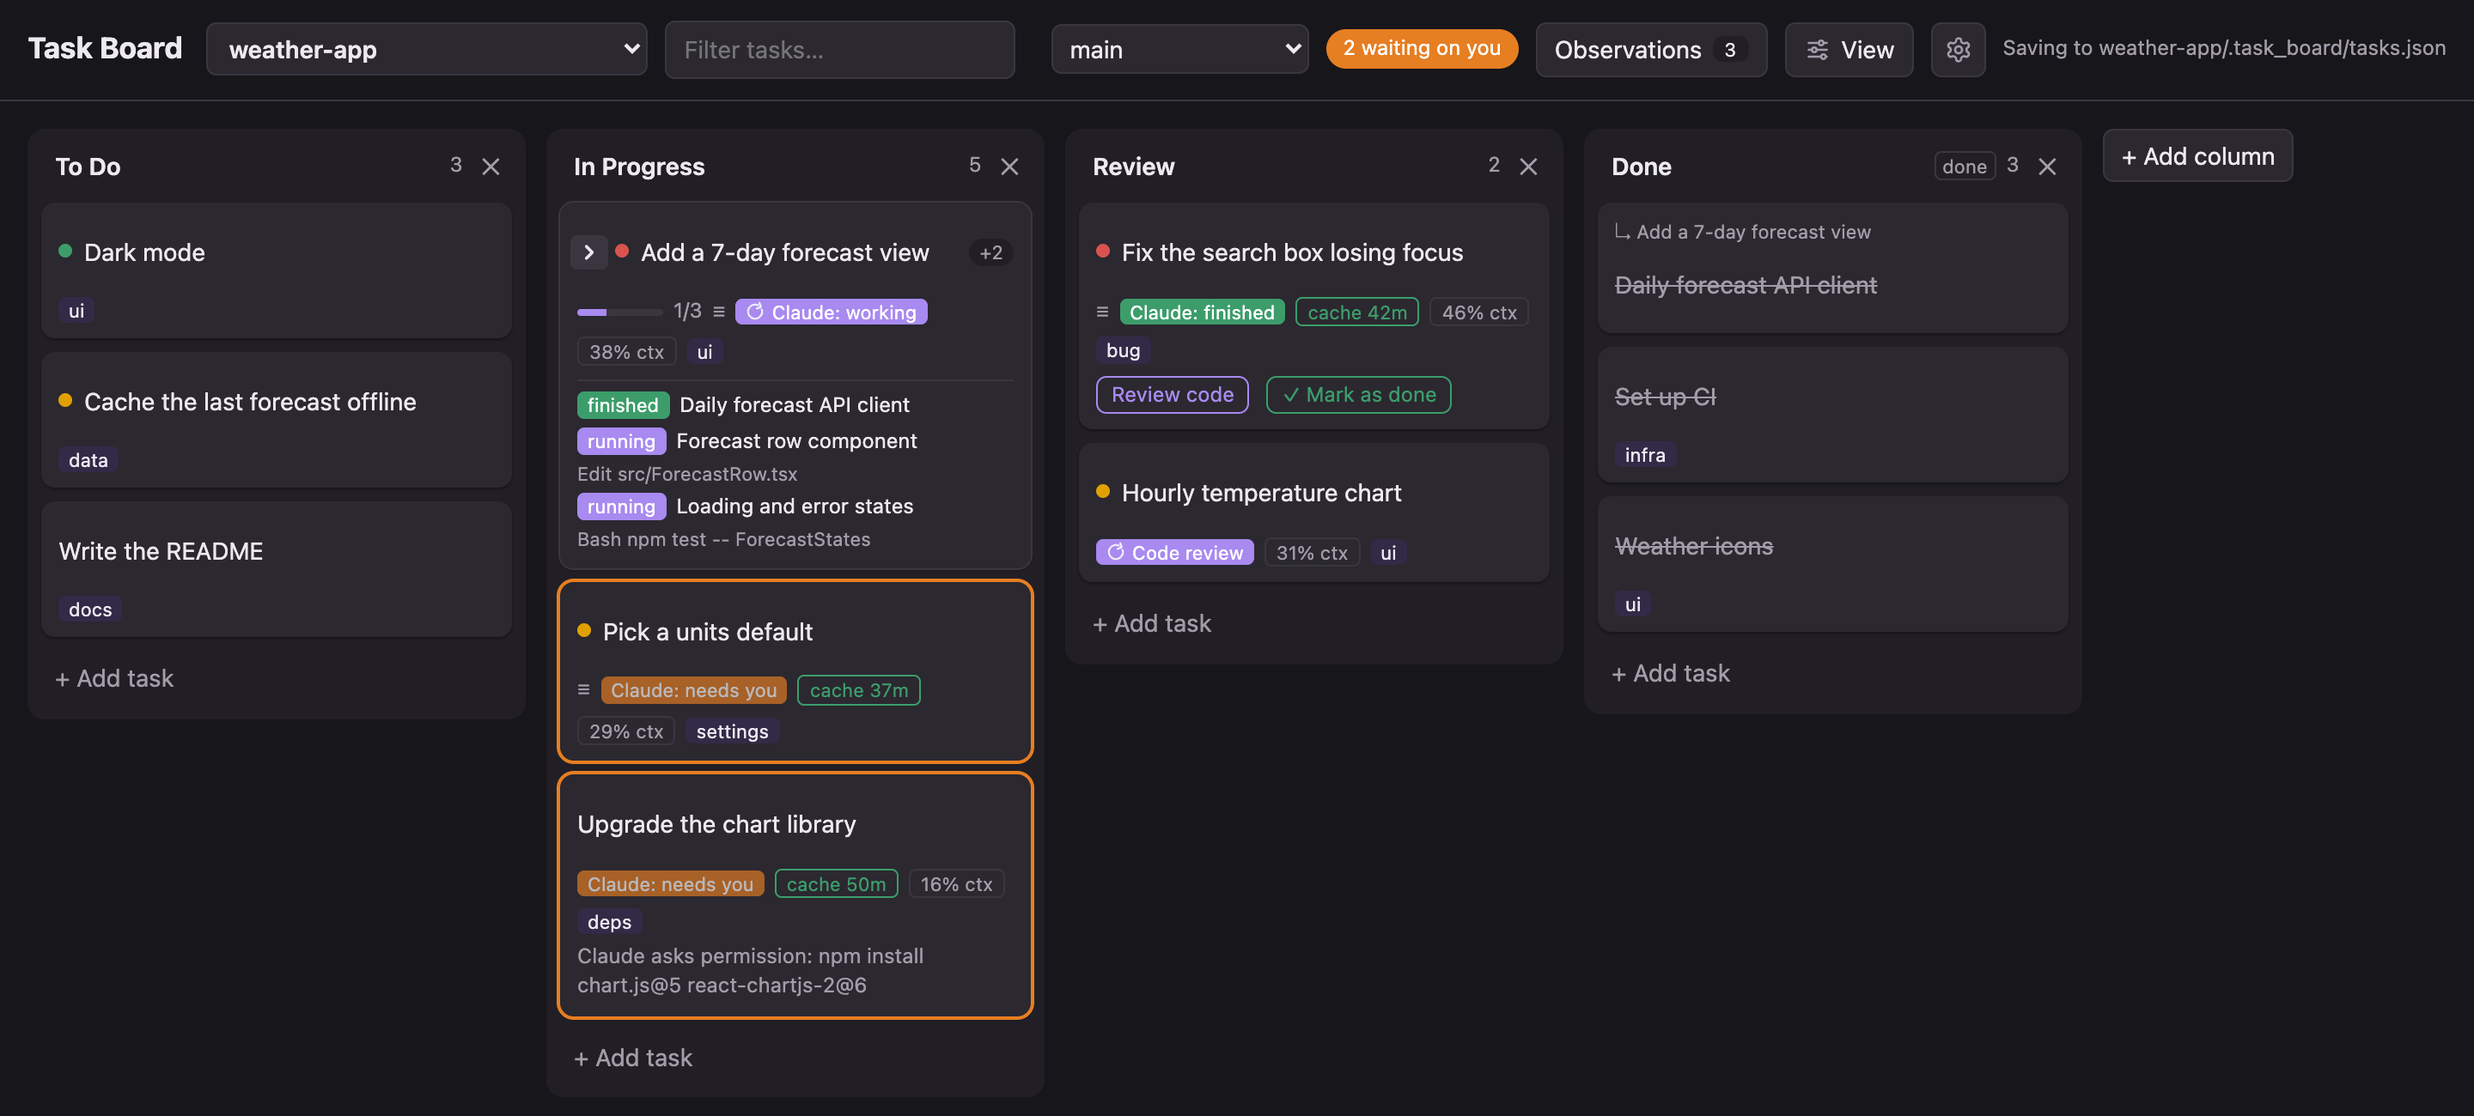
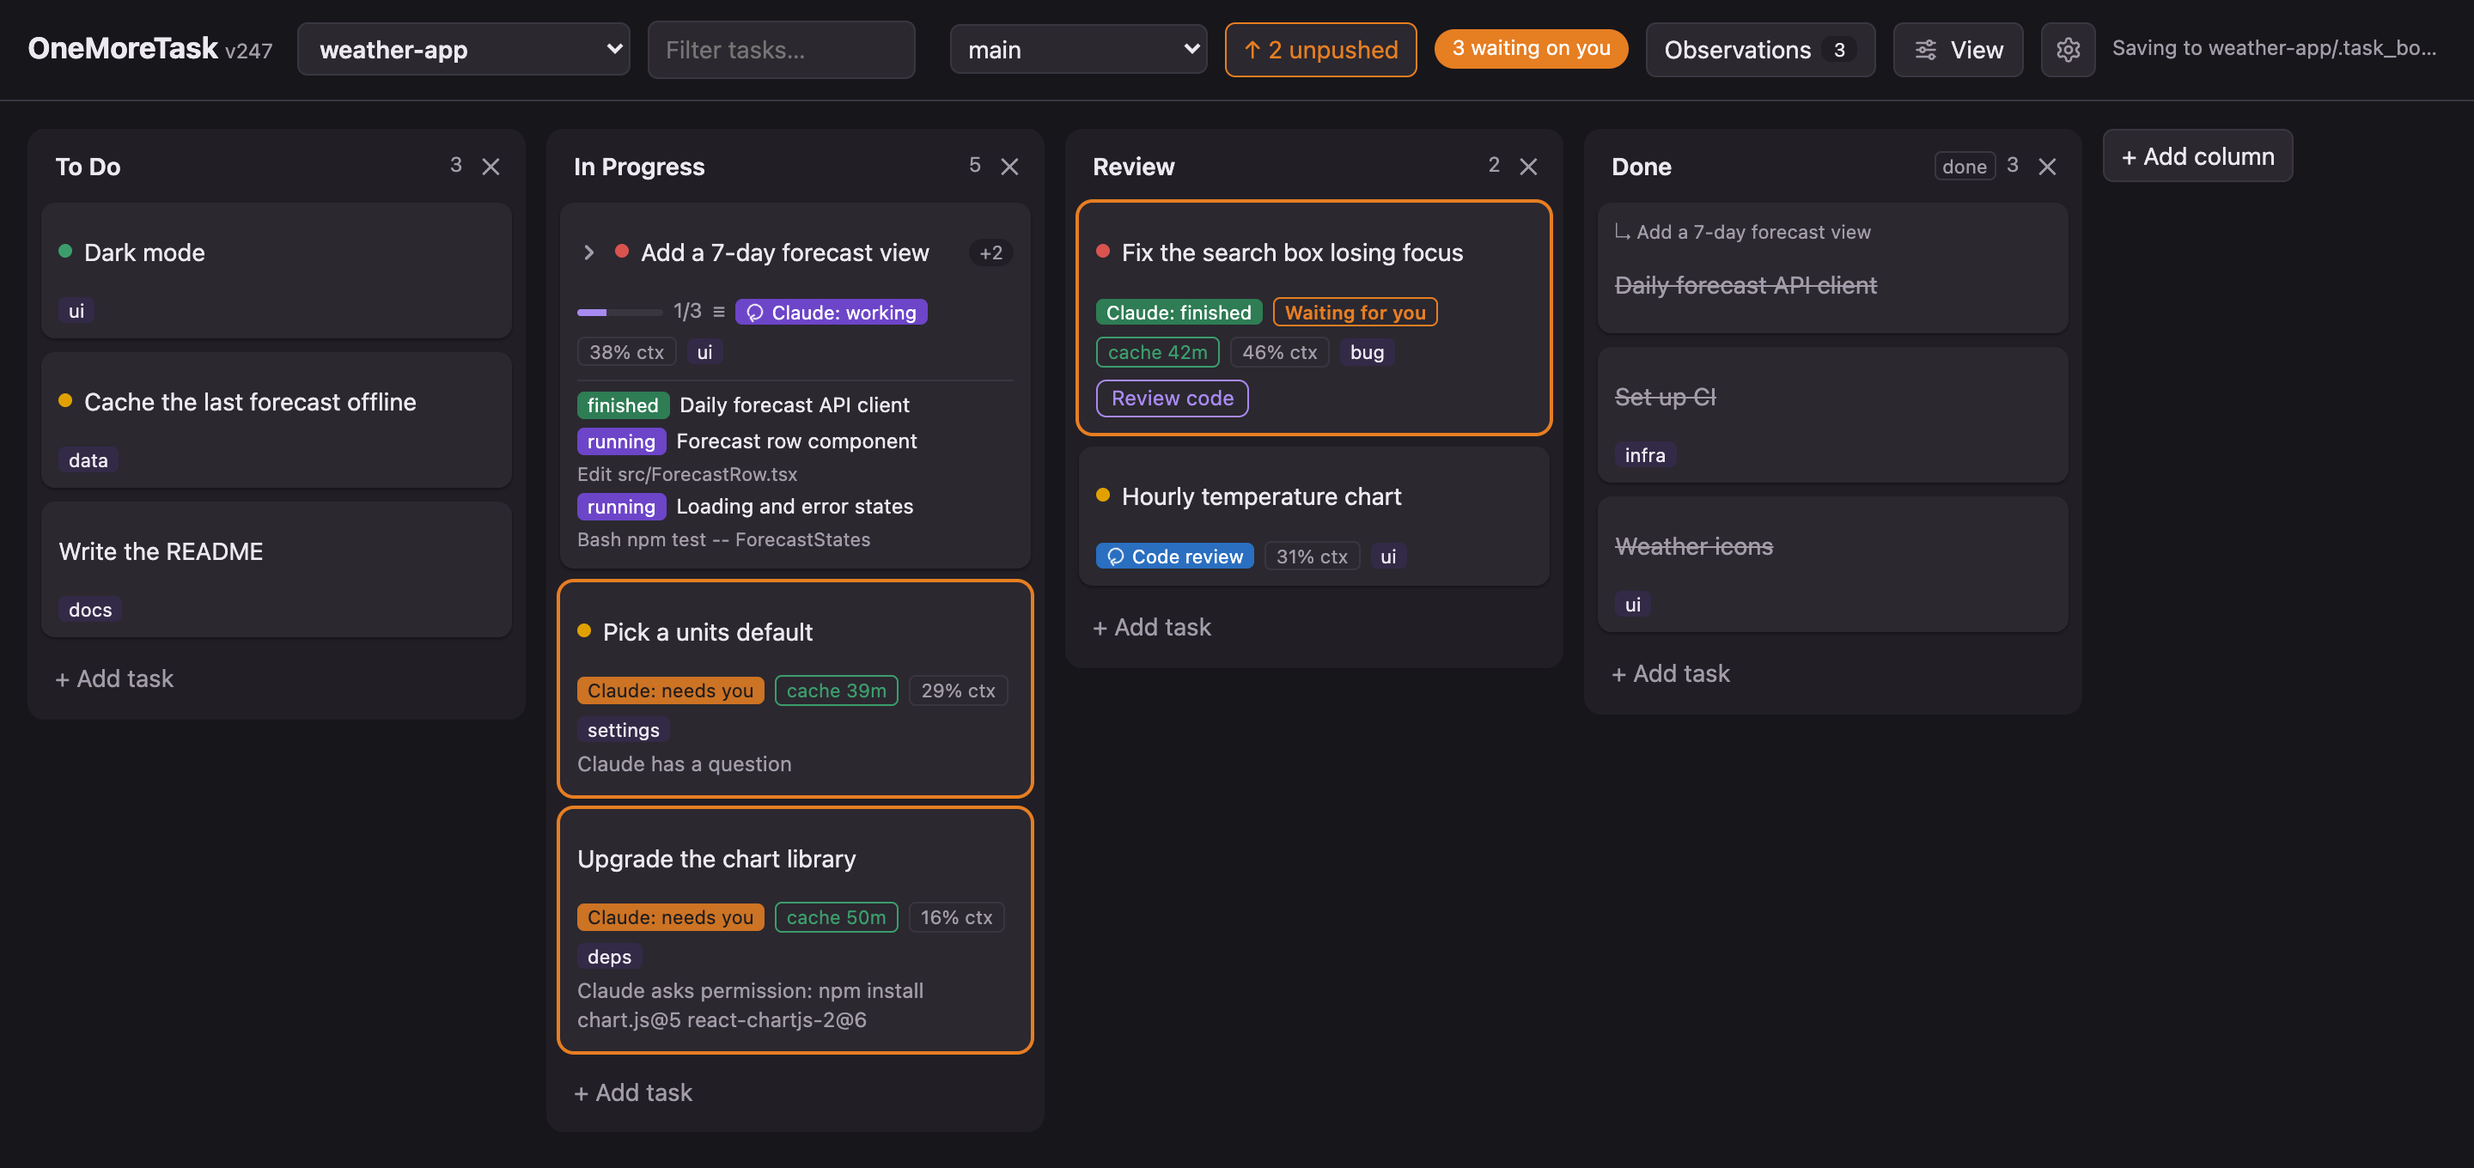
README: features since Oct 9 and fresh screenshots
List view, version in the header, answer buttons and decision trees, unpushed and Claude Code update buttons, French, auto title and tags, project check, New task from this, status colors, branch guard, report.py --option/--part/decision/--lang. New list.png replaces question.png; all shots retaken from a demo board.

diff --git a/README.md b/README.md
@@ -4,11 +4,11 @@ A local kanban board that hands cards to Claude Code (or OpenAI's Codex). Write 
 **Send to Claude**, and the agent works on it in the background, posting its progress, questions and
 results back onto the card.
 
-![The board: a task Claude splits across subagents, a question and a permission request waiting on you, a finished task, and one under code review](docs/screenshots/board.png)
+![The board: a task Claude splits across subagents, a question and a permission request waiting on you, a finished task waiting for you, and one under code review](docs/screenshots/board.png)
 
-| Claude asks you a question | Claude asks permission |
+| List view: Claude asks you to pick | Claude asks permission |
 |---|---|
-| ![A card with Claude's question, a Reply in Conversation button and the reply box](docs/screenshots/question.png) | ![A card asking to run npm install, with Allow, Allow always and Deny buttons](docs/screenshots/permission.png) |
+| ![The list view: tasks grouped by step on the left, the open card on the right with a choice Claude made drawn as a tree and a question with one button per answer](docs/screenshots/list.png) | ![A card asking to run npm install, with Allow, Allow always and Deny buttons](docs/screenshots/permission.png) |
 
 | Claude is done: merge or review | Claude works with subagents |
 |---|---|
@@ -114,44 +114,62 @@ the git repo you run it from.
    stays out of git: tasks are not committed. A project with work
    waiting on you shows `*` and a count in the menu, e.g. `weather-app * (2)`: questions, plus
    finished cards you have not opened yet. A turning arrow marks projects where Claude is working.
-2. **Add a task.** Give it a title, notes, subtasks. You can paste images into the notes.
+2. **Add a task.** Give it a title, notes, subtasks. You can paste images into the notes. The tags
+   you use most show under **Tags**; click one to add it.
 3. **Send to Claude.** Pick a model (or leave the default) and send. A background Claude
    session starts in the project folder with the task as its prompt. Pick an OpenAI model and
-   the task runs in Codex instead; the card works the same. Tick
+   the task runs in Codex instead; the card works the same. A task with no title or no tags gets
+   them from Haiku, which reads your notes and reuses the tags you already have. If the task looks
+   like it belongs to another of your projects, the board asks first: move it there and send, or
+   keep it here. Tick
    **Divide in subtasks / use subagents** to let it split the work; Claude picks the skills each
    part needs and tells that subagent to load them first. The card then lists each
    subagent (running, finished or stopped), what a running one is doing now and the skills it used.
    Tick **Answer only** when you just want an answer: Claude looks into it and reports back
-   on the card, but changes no files and makes no commits.
-4. **Follow the card.** It shows whether the agent is working, needs you, or is finished,
-   and with **Notifications** on in the **View** menu your browser tells you when it needs you or
-   finishes. Cards move on their own:
-   to **In Progress** when Claude starts, to **Review** when it finishes, and to **Done** when you
-   click **Move to done** (hidden while Claude still has work on it). Drag a card up or down to
+   on the card, but changes no files and makes no commits. It picks a quick, cheap model for you
+   (Haiku, or Luna when only Codex is set up). If you then ask that card for real work, a
+   **Create new task** button moves the work to a new card that starts from its summary.
+4. **Follow the card.** Its tag says what Claude is doing, each in its own color: working, code
+   review, writing the recap, merging, needs you, finished or gone. A card waiting on you (a question,
+   a permission request, or finished work not merged or done yet) gets an orange edge and a
+   **Waiting for you** tag, and the count at the top counts it. With **Notifications** on in the
+   **View** menu your browser tells you when Claude needs you or finishes (with a chime you can turn
+   off under **Notification sound**). Cards move on their own:
+   to the top of **In Progress** when Claude starts, to **Review** when it finishes, and to **Done** when you
+   click **Mark as done** in the open card (hidden while Claude still has work on it). Drag a card up or down to
    reorder it inside its column (a subtask stays among its siblings); it can't be dragged to
    another column. To move one by hand, use the Status menu in its panel. Columns drag to reorder.
    A **cache** chip counts down the session's prompt cache. Reply before it runs out
    ("cache cold") and the reply reads the context from cache, at a lower price. A **ctx** chip
    (e.g. `38% ctx`) shows how full the session's context is; it turns orange, then red, near the limit.
    If Claude stops because auto mode's safety check keeps failing, the board starts it again after a minute.
+   Once the cache is cold, a **New task from this** button says whether a fresh start is a good fit
+   (✓ good fit, or ✕ with the reasons) and what it saves. Click it and Haiku writes a short summary of the
+   work, and a new card starts from it instead of re-reading the whole old session.
 5. **Open the card.** The left side holds the status, the priority and a **Next action** box that
    says what to do now (wait, answer, merge, review, mark done) with the button for it. Fold-out rows
    under it show the subtasks, the subagents, the skills used, the context size, the tokens used
    (subagents included) and the exact prompt. The right side has four tabs: **Summary** (Claude's
    result, its commits and whether they are merged), **Changes** (files and commits; click one to see
    its diff), **Conversation** (every message, with the reply box) and **Images**.
-6. **Answer permission requests.** When Claude stops to ask before running something, the card says
+   Claude's messages show headings, lists, tables, code boxes and quotes; each code review finding sits in
+   its own box with how serious it is. When Claude picks between options on its own, the card draws the
+   choice as a small tree: what was asked, each option with why, and a check mark on the one picked.
+6. **Answer questions.** When Claude asks you to pick, each choice is a button: click one to answer, or
+   type your own. When it asks several things at once, click one answer per row, then **Send answers**.
+7. **Answer permission requests.** When Claude stops to ask before running something, the card says
    "Claude asks permission" with the command. Click **Allow**, **Allow always** or **Deny** on the card;
    the board answers the prompt in the session for you (macOS and Linux).
-7. **Reply on the card.** Answer questions or ask for changes. The reply resumes the same
+8. **Reply on the card.** Answer questions or ask for changes. The reply resumes the same
    session. You can also write while Claude is still working, to add information or change
    course. That message is a **note**. The board types it straight into the running
    session (`claude attach`, like typing in Claude Code yourself), so Claude reads it as
    soon as it can, even while it waits on a long command. The card shows "Claude has it"
    once it is in. If a permission prompt is on screen, or on Windows, a hook the board
    installs on each session (`inbox.py`) hands it over after the current step instead. Claude answers in the
-   language you wrote in, even if the project is in another one.
-8. **Review the code.** A finished card in the Review column has a **Review code** button
+   language you wrote in, even if the project is in another one: a card message plainly in another language
+   is refused, and Claude has to write it again.
+9. **Review the code.** A finished card in the Review column has a **Review code** button
    once the task made a commit (a Claude message on the card names its sha). An **Answer only**
    card gets it only after a reply had Claude go ahead and commit.
    It starts a fresh Claude session that finds the task's commits, runs the `commit-review`
@@ -163,9 +181,16 @@ the git repo you run it from.
    findings. When the other agent reviewed (Codex on Claude's work, or the reverse),
    **Send findings to Claude** (or Codex) hands them back to the session that did the work, with
    your reply box text as the word on which to fix.
-9. **Finish.** **Mark as done** (or **Move to done**) puts the card in Done. Once its session is idle,
+10. **Finish.** **Mark as done** (or the Status menu) puts the card in Done. Once its session is idle,
    Claude writes a short recap on the card (what was decided, why, how, what came out) and the board
    removes the session. A later reply on the card starts a fresh session from that recap.
+
+### List view
+
+**View → Layout → List** shows every task in one list, grouped by column, with the open task docked on the
+right (its options and its conversation side by side). **Create new task** at the top adds one to To Do, and
+the search box at the top filters the list. Drag the list's edge to make it wider or narrower; double-click
+the edge to reset it. The board view is one click back in the same menu.
 
 ### Use a worktree
 
@@ -185,6 +210,11 @@ hears of: no Run app or Merge buttons, the Changes tab reading the main folder, 
 from the main folder without the task's branch. A task sent with the box off is also told in its
 prompt to work in the project folder and not to make a worktree.
 
+Every session also gets a hook (`branch_guard.py`) that stops it from switching the branch of your main
+checkout (`git switch`, `git checkout <branch>`, also inside `sh -c`). Tasks without a worktree share that
+checkout, and merges need it on its base branch. Switching back to the default branch is allowed, and
+worktrees are left alone.
+
 A finished card in Review then has two more buttons:
 
 - **Run app from worktree**: Claude starts the app from the worktree (a dev server on a spare port,
@@ -195,7 +225,9 @@ A finished card in Review then has two more buttons:
 
 A project with no git repo (or one with no commit yet) shows a window offering to make one: it runs
 `git init` and commits everything as "Initial commit", except the board folder and `.env` files (`.env`, `.env.*`; `.env.example`,
-`.env.sample` and `.env.template` are kept), which it lists in `.git/info/exclude`.
+`.env.sample` and `.env.template` are kept), which it lists in `.git/info/exclude`. It also lists the
+biggest folders with their size, so you can tick the ones to leave out. On a very big folder it can take a
+few minutes; the window says so and waits.
 
 A send that fails takes its new worktree and branch away again. A card moved to done before its merge says so
 under **Next action**; move it back to Review to get the buttons.
@@ -238,11 +270,16 @@ your skills and asks you on the card which changes to make.
 
 ### Header
 
-- **View**: theme (System, Light or Dark), text size, and whether subtasks show on the board.
+- **OneMoreTask** and the app's version (e.g. `v247`). The number goes up with each new version on GitHub.
+- **View**: layout (Board or List), theme (System, Light or Dark), text size, whether subtasks show,
+  **Notifications** and **Notification sound**, and **Language** (English or Français: the whole page changes).
 - The gear button: project settings and the **Changelog**, a plain-words list of what changed in the board.
-- The branch menu (e.g. `main`) shows which copy of the board app you are running. It turns orange on a
-  task's worktree; pick another copy to jump to it.
-- **Update** (see [Update](#update)) and a count of cards waiting on you.
+- The branch menu (e.g. `main`) shows which copy of the board app you are running and the branch it is really
+  on. It turns orange on a task's worktree; pick another copy to jump to it.
+- **↑ N unpushed** (orange) shows when the project has commits not pushed to its remote yet. Click it for the
+  list, and **Push to remote…** there to push them to the remote branch you pick.
+- **Update** (see [Update](#update)), a button that shows when a newer Claude Code is out (click it and
+  confirm, and the board runs `claude update`), and a count of cards waiting on you.
 
 ### Claude Code tools
 
@@ -285,11 +322,19 @@ tells them how:
 
 ```bash
 python3 report.py --board <project>/.task_board <task_id> progress "what I'm doing now"
-python3 report.py --board <project>/.task_board <task_id> question "what I need you to decide"
+python3 report.py --board <project>/.task_board <task_id> question "what I need you to decide" \
+    --option "A. Settings screen" --option "B. Header toggle"
 python3 report.py --board <project>/.task_board <task_id> done "what I did, what is left"
+python3 report.py --board <project>/.task_board <task_id> decision - < decision.json
 ```
 
-Add `--image <file>` to attach a screenshot.
+- `--option` (2 to 6) gives the card one button per answer. For several questions at once, give each as
+  `--part "<question>"` followed by its `--option`s; the answer comes back as one line per part.
+- `decision` posts a choice Claude made, drawn as a tree: `{"query", "options": [{"label", "why"}],
+  "chosen", "by", "why"}`.
+- `--image <file>` attaches a screenshot.
+- A message plainly in another language than your latest one on the card is refused; `--lang <language>`
+  posts it anyway when you asked for that language.
 
 ## Where your tasks are saved
 
@@ -348,7 +393,8 @@ Each project keeps its board in a `.task_board/` folder at the project's root:
 - `done: true` marks the column whose tasks count as finished.
 - `agent` is only there once the task was sent to Claude. It holds the Claude session id.
 - Optional fields: `images` (file names in `images/`), `delegate` and `subagentModel`
-  (the **Divide in subtasks** options), `answerOnly` (the **Answer only** box).
+  (the **Divide in subtasks** options), `answerOnly` (the **Answer only** box), `worktree` (the
+  **Use a worktree** box; missing counts as on).
 
 ### Card messages: `agent_reports/<task_id>.json`
 
@@ -361,8 +407,9 @@ A list of messages, oldest first:
 ]
 ```
 
-`status` is `launch`, `reply`, `review`, `progress`, `question`, `done` or `answer`. `images` (file
-names) and `session` are added when they apply.
+`status` is `launch`, `reply`, `note`, `review`, `progress`, `question`, `decision`, `done`, `answer` or
+`recap`. `images` (file names), `session`, `options` and `parts` (a question's answer buttons) and `decision`
+(the tree) are added when they apply.
 
 ### Outside the project
 
@@ -375,7 +422,7 @@ names) and `session` are added when they apply.
 | `<project>/skill-observations/`, `~/.claude/skill-observations/` | Observations the skill logs. The board only reads them |
 | `<project>/.git/info/exclude` | Gets `skill-observations/`, `skill-updates/` and `.claude/skills/` added, so skill work stays out of your commits |
 | `~/.claude.json` | Only when you click **Trust folder and send**: marks that folder as trusted, like accepting Claude Code's own trust prompt |
-| Your browser's local storage | View settings only: theme, text size, show subtasks, collapsed groups, last project, last model picked, which cards you have read |
+| Your browser's local storage | View settings only: layout, list width, theme, text size, language, show subtasks, notification sound, collapsed groups, last project, last model picked, which cards you have read, unsent reply drafts |
 
 If you open `index.html` straight from disk (a `file://` page) instead of running the
 server, the board is saved in the browser's local storage only.
@@ -395,12 +442,16 @@ What does leave your computer, and why:
 - **Send to Claude and replies.** They run Claude Code (`claude`), which sends the task's
   title, notes, subtasks and your replies to Anthropic, plus any image Claude opens, the same
   as when you use Claude Code in a terminal. No task data goes out until you click Send.
+- **Quick Haiku calls when you send.** A task with no title or tags sends its notes to Haiku to name and
+  tag it. The project check sends the task's title and notes, plus the start of each of your projects'
+  README and their 15 newest card titles. The recap at Done and **New task from this** send the card's
+  messages. All go through your own `claude` command.
 - **The default model name.** To show the name of your default model, the board runs
   `claude -p "Reply: ok"` at most once a day (about $0.09). It sends no task data. It is
   skipped if your Claude settings or `ANTHROPIC_MODEL` already name a model.
 - **Install and update.** The install command downloads the app from GitHub. The board's
   **Update** button runs `git fetch` on the app folder when the page opens and every 30 minutes,
-  to compare your copy with GitHub. It sends no task data.
+  to compare your copy with GitHub, and asks npm for the newest Claude Code version. It sends no task data.
 
 ## Update
 
